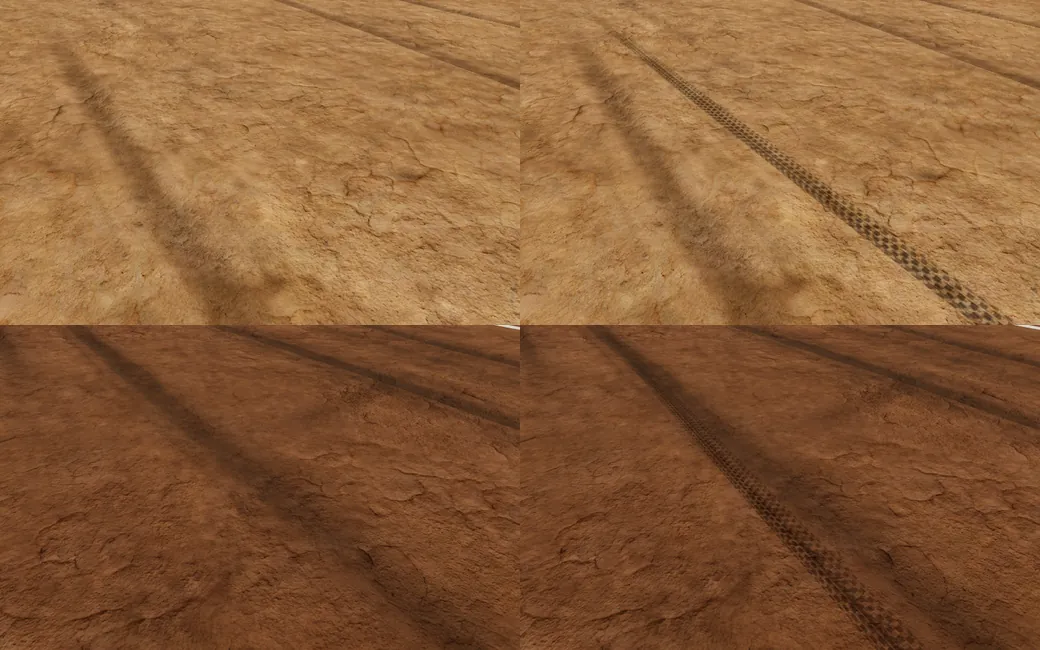
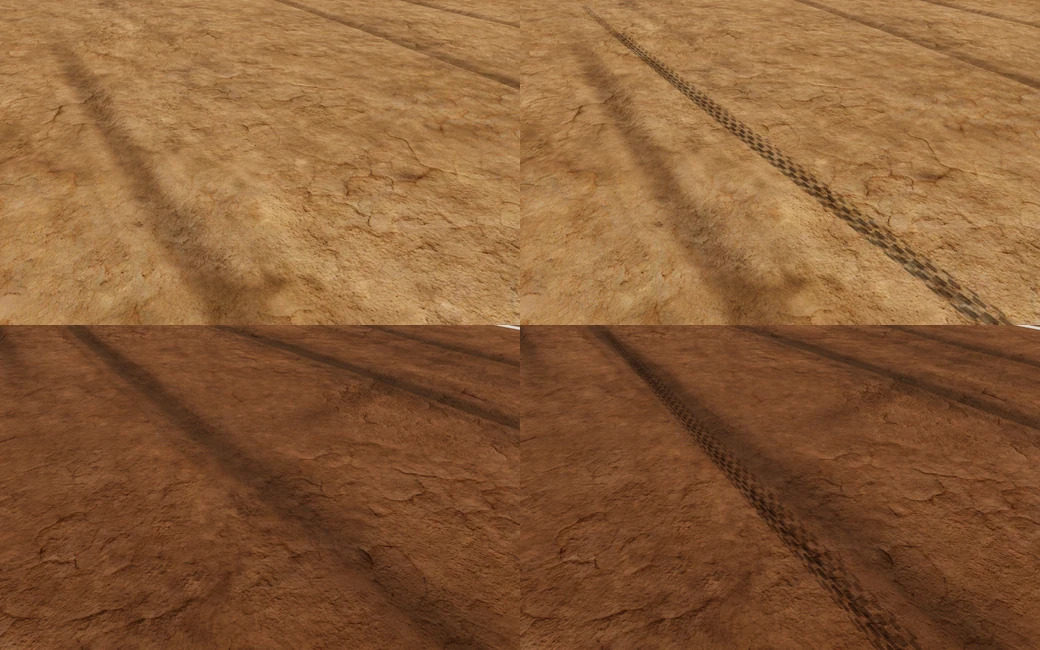
Record both High starting grids and guard motocross snapshot independence

diff --git a/tests/motocross-snapshot-cadence.test.ts b/tests/motocross-snapshot-cadence.test.ts
@@ -1,0 +1,69 @@
+import { createHash } from 'node:crypto';
+import { setImmediate } from 'node:timers/promises';
+import { expect, it } from 'vitest';
+import { controls, DEFAULT_OPTIONS } from '../src/simulation/config.ts';
+import { CAR_STRIDE, F, H, HEADER, carBase } from '../src/simulation/protocol.ts';
+import { Simulation } from '../src/simulation/world.ts';
+
+const venues = [
+  ['valley-ridge-mx', 'mx450'],
+  ['arena-nord-sx', 'mx250'],
+] as const;
+
+it.each(venues)(
+  '%s preserves all eight riders and disturbed soil at 30, 60 and 120 Hz snapshot publication',
+  async (circuit, vehicle) => {
+    const commonFrames: Buffer[] = [];
+    let terrainHash: string | undefined;
+    for (const publishHz of [30, 60, 120]) {
+      const sim = new Simulation({
+        ...DEFAULT_OPTIONS,
+        circuit,
+        vehicles: Array(8).fill(vehicle),
+        opponents: 7,
+        seed: 75243,
+        laps: 5,
+        mode: 'race',
+        ruleset: 'motocross-moto',
+      });
+      const frame = new Float32Array(HEADER + 8 * CAR_STRIDE);
+      const bytes = Buffer.from(frame.buffer);
+      const input = controls();
+      let shared = 0;
+      let published = 0;
+      let peakSpeed = 0;
+      for (let tick = 1; tick <= 24 * 120; tick++) {
+        sim.autoPlayer = tick > 1500;
+        if (!sim.autoPlayer) {
+          input.throttle = tick < 500 ? 0.72 : 0.9;
+          input.brake = tick > 1100 && tick < 1180 ? 0.26 : 0;
+          input.steer = Math.sin(tick * 0.014) * 0.052;
+          input.riderLean = Math.cos(tick * 0.009) * 0.17;
+          sim.setInput(input);
+        }
+        sim.step(1 / 120);
+        // Let the runner process progress messages between chunks of fixed-step work.
+        if (tick % 240 === 0) await setImmediate();
+        if (tick % (120 / publishHz) !== 0) continue;
+        sim.writeFrame(frame);
+        published++;
+        if (tick % 4 !== 0) continue;
+        // Hash every byte, including all rivals and the wheel and suspension channels.
+        const digest = createHash('sha256').update(bytes).digest();
+        if (publishHz === 30) commonFrames.push(digest);
+        else
+          expect(digest.equals(commonFrames[shared]), `${publishHz} Hz at tick ${tick}`).toBe(true);
+        peakSpeed = Math.max(peakSpeed, frame[carBase(0) + F.SPEED]);
+        shared++;
+      }
+      expect(shared).toBe(720);
+      expect(published).toBe(24 * publishHz);
+      expect(frame[H.TICK]).toBe(2880);
+      expect(peakSpeed).toBeGreaterThan(4);
+      const ground = sim.offroad!.terrain.hash();
+      if (publishHz === 30) terrainHash = ground;
+      else expect(ground).toBe(terrainHash);
+    }
+  },
+  120_000,
+);

diff --git a/docs/production/motocross-evidence/race-presentation-2026-11-20/README.md b/docs/production/motocross-evidence/race-presentation-2026-11-20/README.md
@@ -14,7 +14,7 @@ On the MX450, the filmed goggle lens follows the helmet's curvature. Its two tea
 
 ## Wheel passage
 
-Each row shows the same camera and soil before and after a grounded wheel passes. Valley Ridge is above Arena Nord. The WebGL test recorded 300 outdoor segments and 301 indoor segments. Both added one draw call and restored the original pixels on rewind.
+Each row shows the same camera and soil before and after a grounded wheel passes. Valley Ridge is above Arena Nord. The MX tread has 22 alternating centre-block pairs per revolution. Each impression follows the wheel rotation recorded by the solver, including reverse rotation and slides with a locked wheel. At 800 × 500, the passage changed 21,829 pixels across 300 outdoor segments and 24,451 pixels across 301 indoor segments. Each course added one draw call. Seeking back restored the original framebuffer byte-for-byte, and seeking forward restored the marked image.
 
 ![Valley Ridge and Arena Nord soil before and after a tyre passes](soil-passage.webp)
 
@@ -32,7 +32,15 @@ These chase views came from an eight-rider race through the normal game menus wi
 
 ![Eight riders racing at Valley Ridge and Arena Nord](live-races.webp)
 
-Six seeded race runs passed the repository's motocross, supercross and supermoto handling limits. Observed crash rates ranged from 0.00 to 0.13 per rider-lap. The longest continuous stop was under 15 seconds in each run. [Race results](race-checks.json)
+The High preset captures below are at the original 1280 × 800 resolution. The first shows the unobscured starting grid at Valley Ridge. The second shows the eight-rider field behind Arena Nord’s pre-race briefing. The game rendered both through the normal race menus.
+
+![Valley Ridge High preset live starting grid](high-valley-grid.webp)
+
+![Arena Nord High preset pre-race briefing with eight riders at the gate](high-arena-held.webp)
+
+Six seeded race runs passed the repository's motocross, supercross and supermoto handling limits. Observed crash rates ranged from 0.00 to 0.13 per rider-lap. The longest continuous stop was under 15 seconds in each run.
+
+Both eight-rider venues also ran for 24 seconds at 120 physics steps per second. With the same rider inputs, publishing at 30, 60 or 120 Hz produced identical bytes in all 720 shared snapshots on each course. The final rut depth and compaction hashes also matched. [Race, timing and tyre results](race-checks.json)
 
 ## Frame workload
 
@@ -59,4 +67,10 @@ The full player journey can use the same preset and controls as the race capture
 ```sh
 APEX_MOTOCROSS_JOURNEY_QUALITY=low npx playwright test \
   --config playwright.motocross.config.ts e2e/45-motocross-gameplay.spec.ts
+```
+
+To check that presentation sampling preserves the physics and terrain state, run the fixed-step snapshot comparison.
+
+```sh
+npx vitest run tests/motocross-snapshot-cadence.test.ts
 ```
